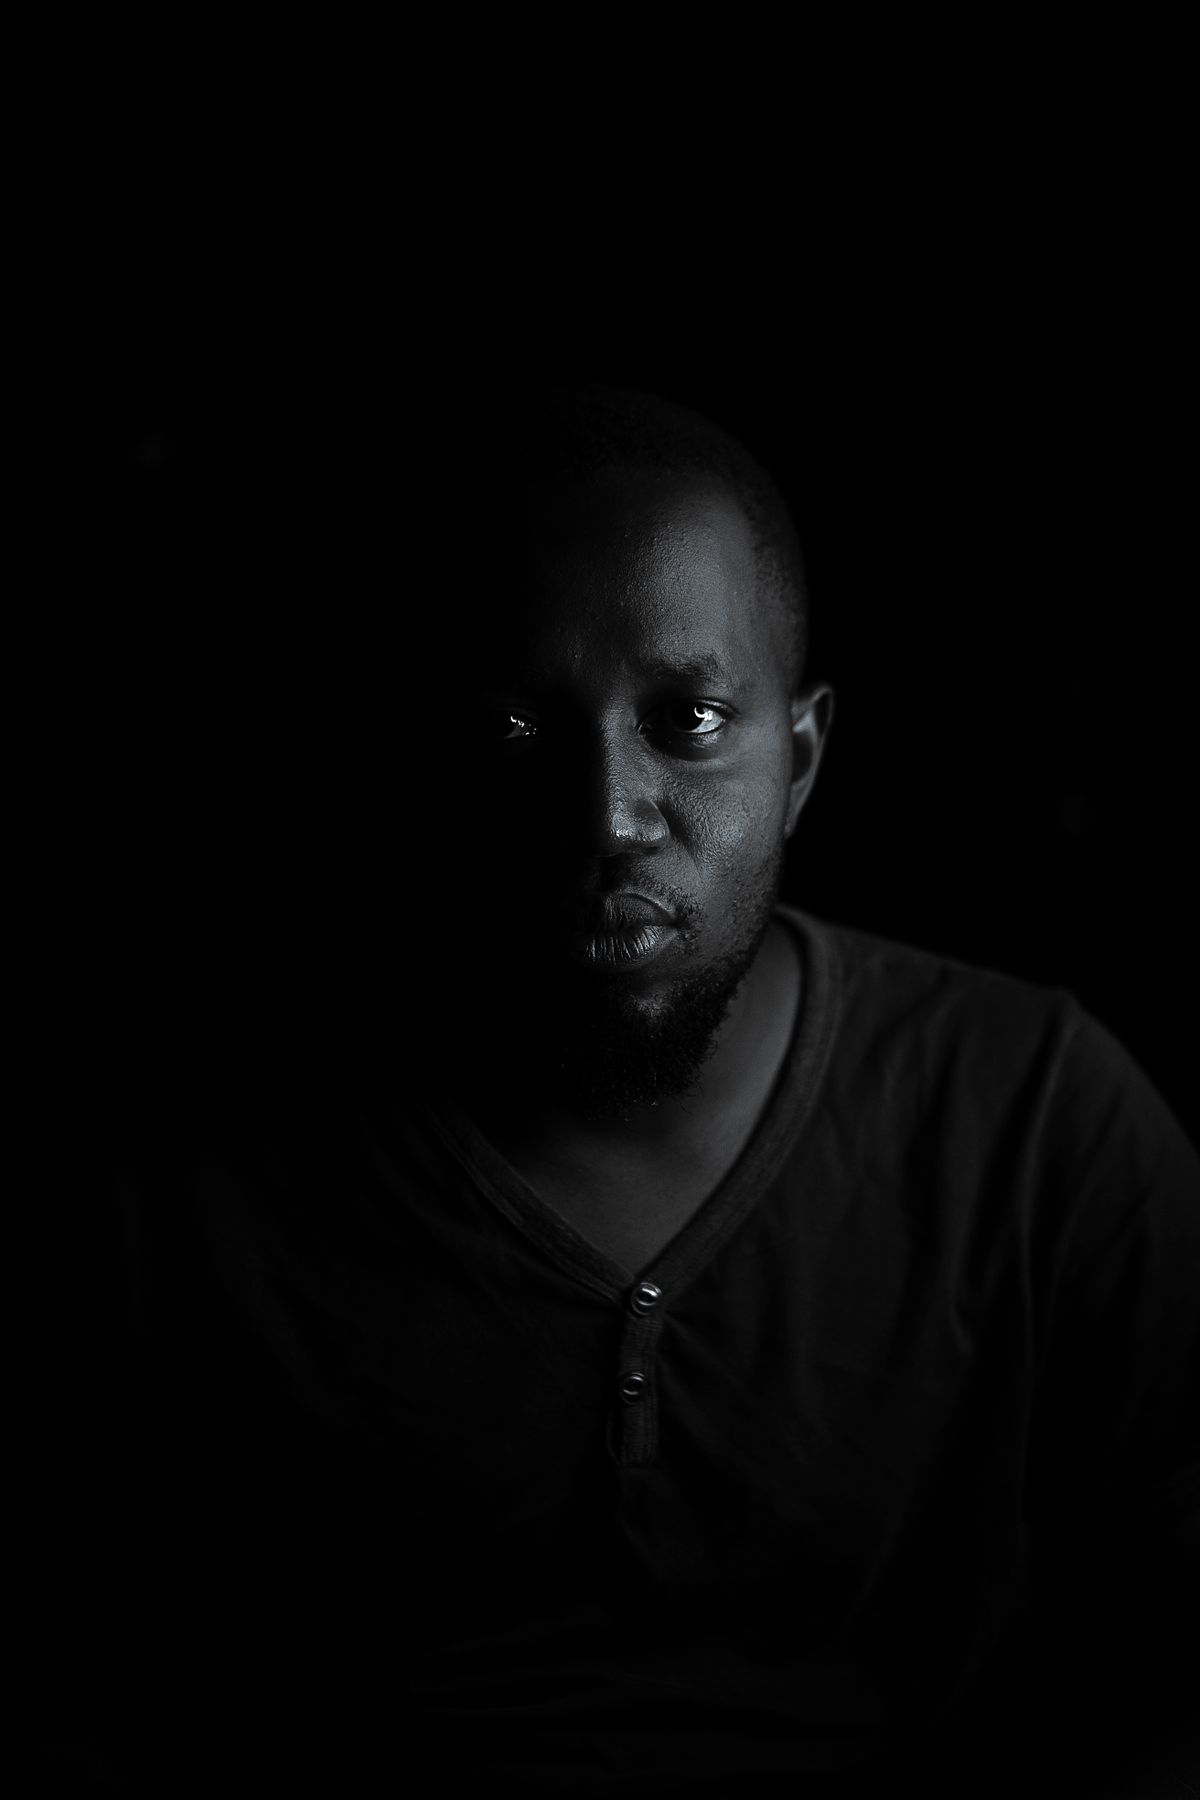
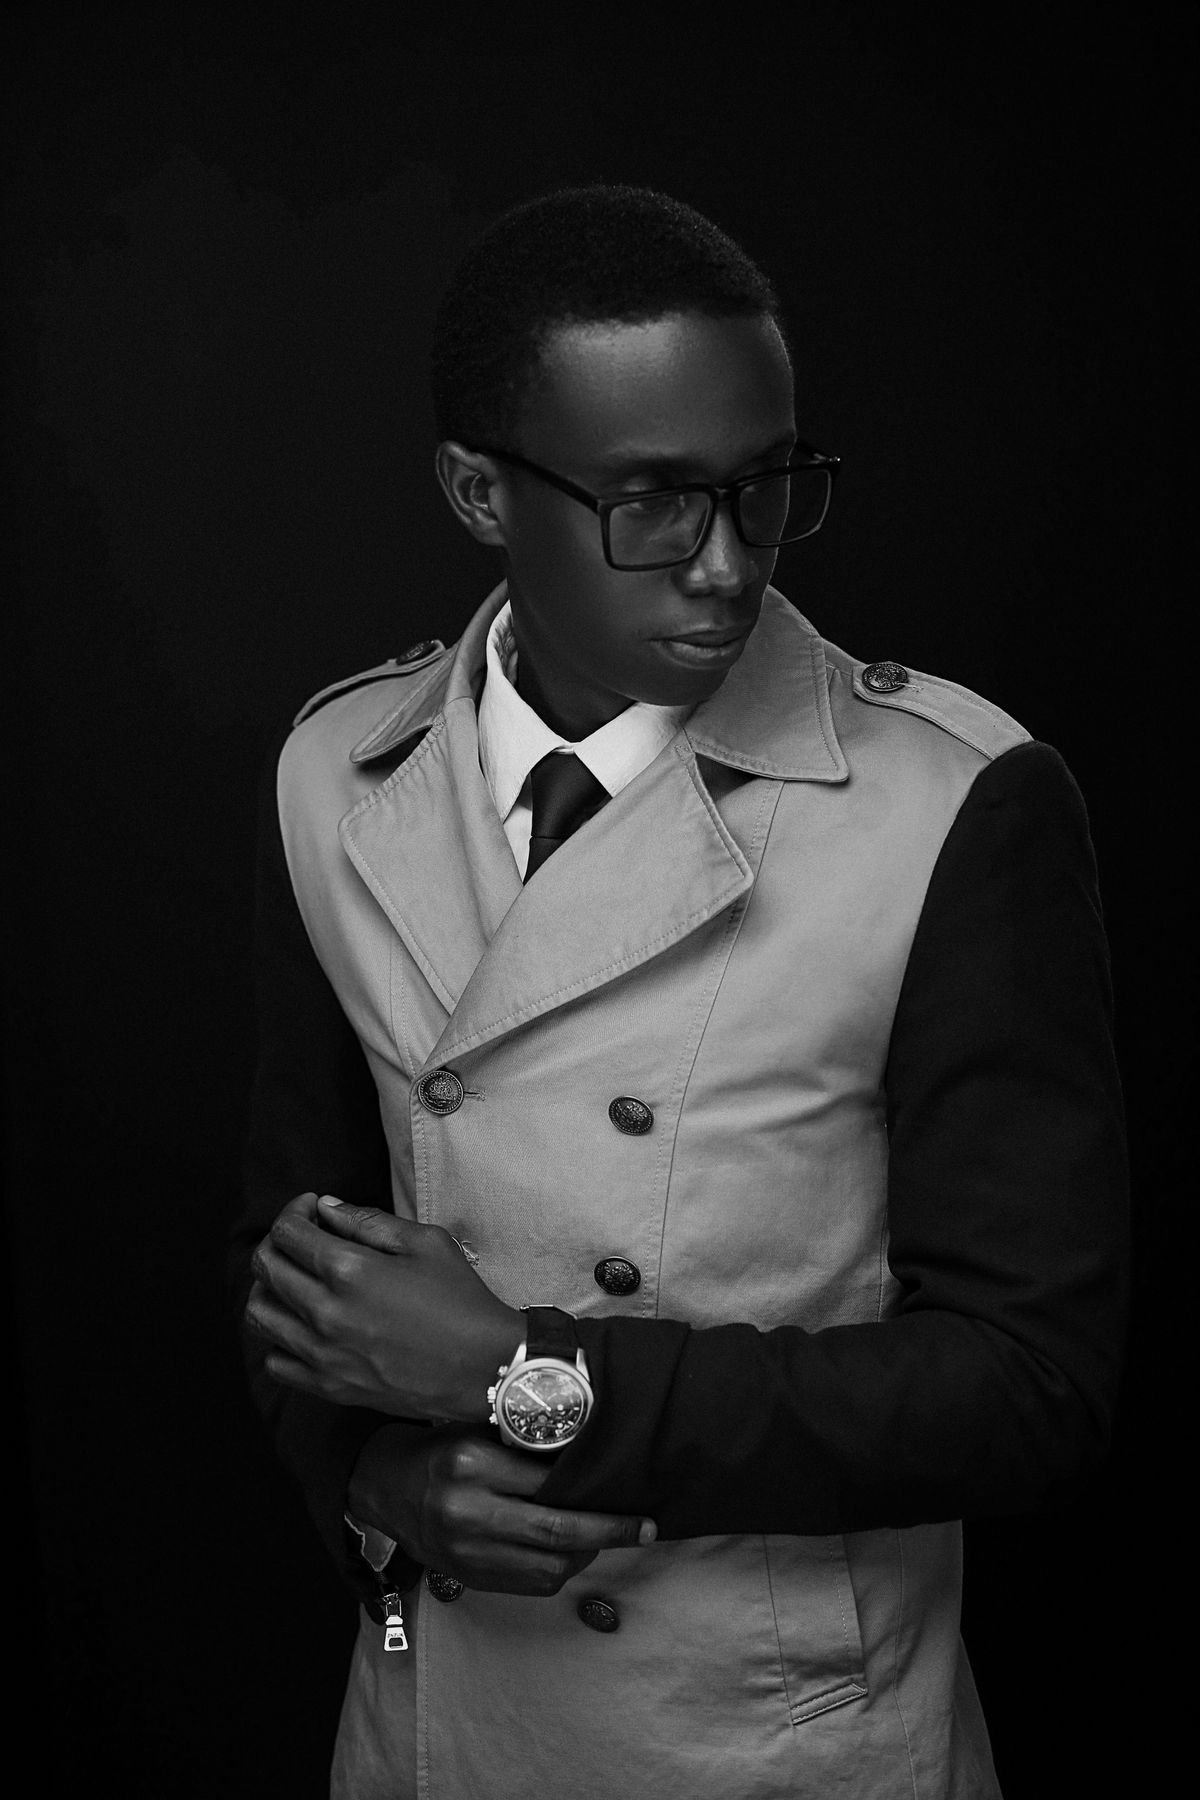
Swap therapist background for a professional portrait
The low-key contemplative portrait read as a client, not a clinician
(user feedback). Replaced with a Pexels portrait that carries the
professional signals - glasses, shirt and tie, attentive expression - on
a native black studio ground (photo 9592866, free commercial use).

His light coat sat brighter behind the benefit text than the previous
photo's darkness, so the layer drops from 0.6 to 0.32 opacity with a
longer fade; the figure stays present while white body copy stays
comfortably readable.

Changed region(s): [[0.185, 0.1244, 0.8942, 1.0], [0.4933, 0.0933, 0.5858, 0.1244]]

diff --git a/landing/src/sections/therapists.css b/landing/src/sections/therapists.css
@@ -13,7 +13,7 @@
  * Low-key portrait as background (user direction): rendered in a masked
  * layer so it fades in from the ground with no visible edge — the photo's
  * own black is not exactly our navy, so a plain background-image showed a
- * seam at its left boundary. Photo: pexels.com/photo/4828266 (Pexels,
+ * seam at its left boundary. Photo: pexels.com/photo/9592866 (Pexels,
  * free commercial use).
  */
 .styles_container__KfcyI[data-theme="dark"] .styles_bgWrap__Zd6Bj.therapists-wrap::before {
@@ -26,9 +26,11 @@
      coordinates — it starts at the photo's left edge at every viewport. */
   width: min(46%, 520px);
   background: url("/images/therapist-bg.jpg") center right / cover no-repeat;
-  opacity: 0.6;
-  -webkit-mask-image: linear-gradient(90deg, transparent 0%, #000 55%);
-  mask-image: linear-gradient(90deg, transparent 0%, #000 55%);
+  /* The subject's light coat sits behind the benefit text - keep the layer
+     quiet enough that white body copy stays comfortably readable. */
+  opacity: 0.32;
+  -webkit-mask-image: linear-gradient(90deg, transparent 0%, #000 65%);
+  mask-image: linear-gradient(90deg, transparent 0%, #000 65%);
   pointer-events: none;
 }
 
